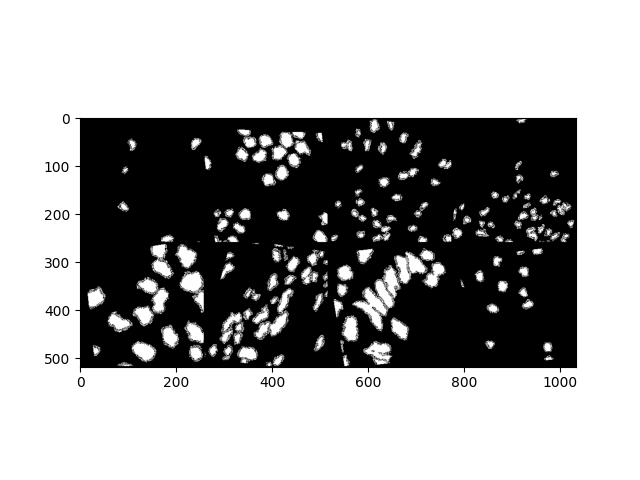
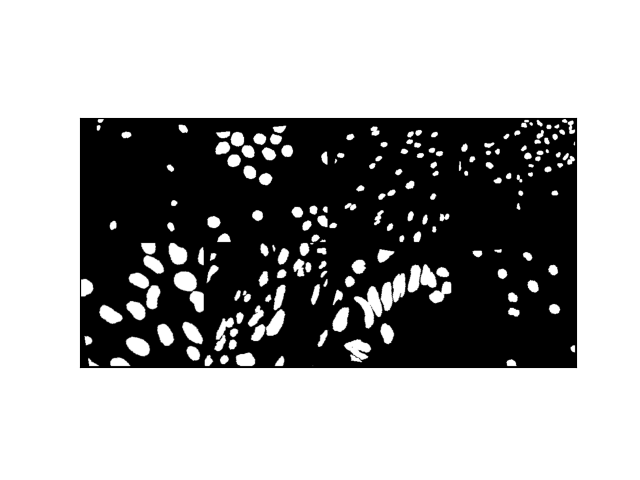
sample images from generator with daç

diff --git a/lib/data_generators.py b/lib/data_generators.py
@@ -131,17 +131,21 @@ if __name__ == "__main__":
     print("TEST DATA GENERATOR")
 
     data_df = pd.read_csv("../dataset/data_partition.csv")
-    dataset = Cells_dataset(data_df, "train", data_augmentation=True, elastic_transform=True)
+    dataset = Cells_dataset(data_df, "train", data_augmentation=True, elastic_transform=False)
     dataloader = DataLoader(dataset, batch_size = 8)
     batch = next(iter(dataloader))
      
     images_grid = make_grid(batch["image"], nrow=4)
     masks_grid = make_grid(batch["mask"], nrow=4)
 
-    plt.imshow(images_grid.permute(1, 2, 0))
+    fig = plt.imshow(images_grid.permute(1, 2, 0))
+    fig.axes.get_xaxis().set_visible(False)
+    fig.axes.get_yaxis().set_visible(False)
     plt.savefig("plots/test_dataloader_images.png")
     plt.clf()
 
-    plt.imshow(masks_grid.permute(1, 2, 0))
+    fig = plt.imshow(masks_grid.permute(1, 2, 0))
+    fig.axes.get_xaxis().set_visible(False)
+    fig.axes.get_yaxis().set_visible(False)
     plt.savefig("plots/test_dataloader_masks.png")
     
